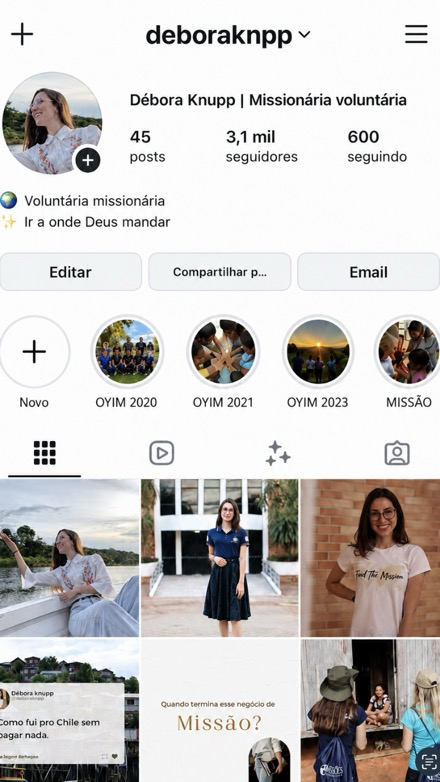
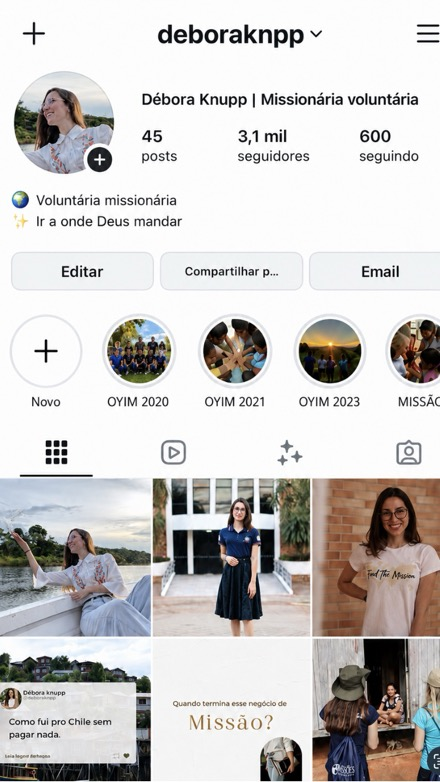
Corta o antes da @deboraknpp pela direita, preservando os emojis

diff --git a/css/styles.css b/css/styles.css
@@ -916,7 +916,7 @@ h1, h2, h3 {
 .profile__img--1-depois { background-image: url("../assets/fotos/perfil-1-depois.jpg"), linear-gradient(160deg, #3a3128, #1d1814); }
 .profile__img--2-antes  { background-image: url("../assets/fotos/perfil-2-antes.jpg?v=3"),  linear-gradient(160deg, #262a28, #141817); }
 .profile__img--2-depois { background-image: url("../assets/fotos/perfil-2-depois.jpg"), linear-gradient(160deg, #333a35, #191e1b); }
-.profile__img--3-antes  { background-image: url("../assets/fotos/perfil-3-antes.jpg?v=3"),  linear-gradient(160deg, #2a2630, #16141b); }
+.profile__img--3-antes  { background-image: url("../assets/fotos/perfil-3-antes.jpg?v=4"),  linear-gradient(160deg, #2a2630, #16141b); }
 .profile__img--3-depois { background-image: url("../assets/fotos/perfil-3-depois.jpg"), linear-gradient(160deg, #383246, #1c1922); }
 
 /* ============ 8. SOBRE / CONTATO / FOOTER ============ */

diff --git a/index.html b/index.html
@@ -23,7 +23,7 @@
 
   <!-- O ?v= muda junto com o CSS: sem ele o navegador segura a folha antiga
        por 10 min (max-age do GitHub Pages) e ignora imagens novas. -->
-  <link rel="stylesheet" href="css/styles.css?v=20260901" />
+  <link rel="stylesheet" href="css/styles.css?v=20260901b" />
 </head>
 
 <body>
